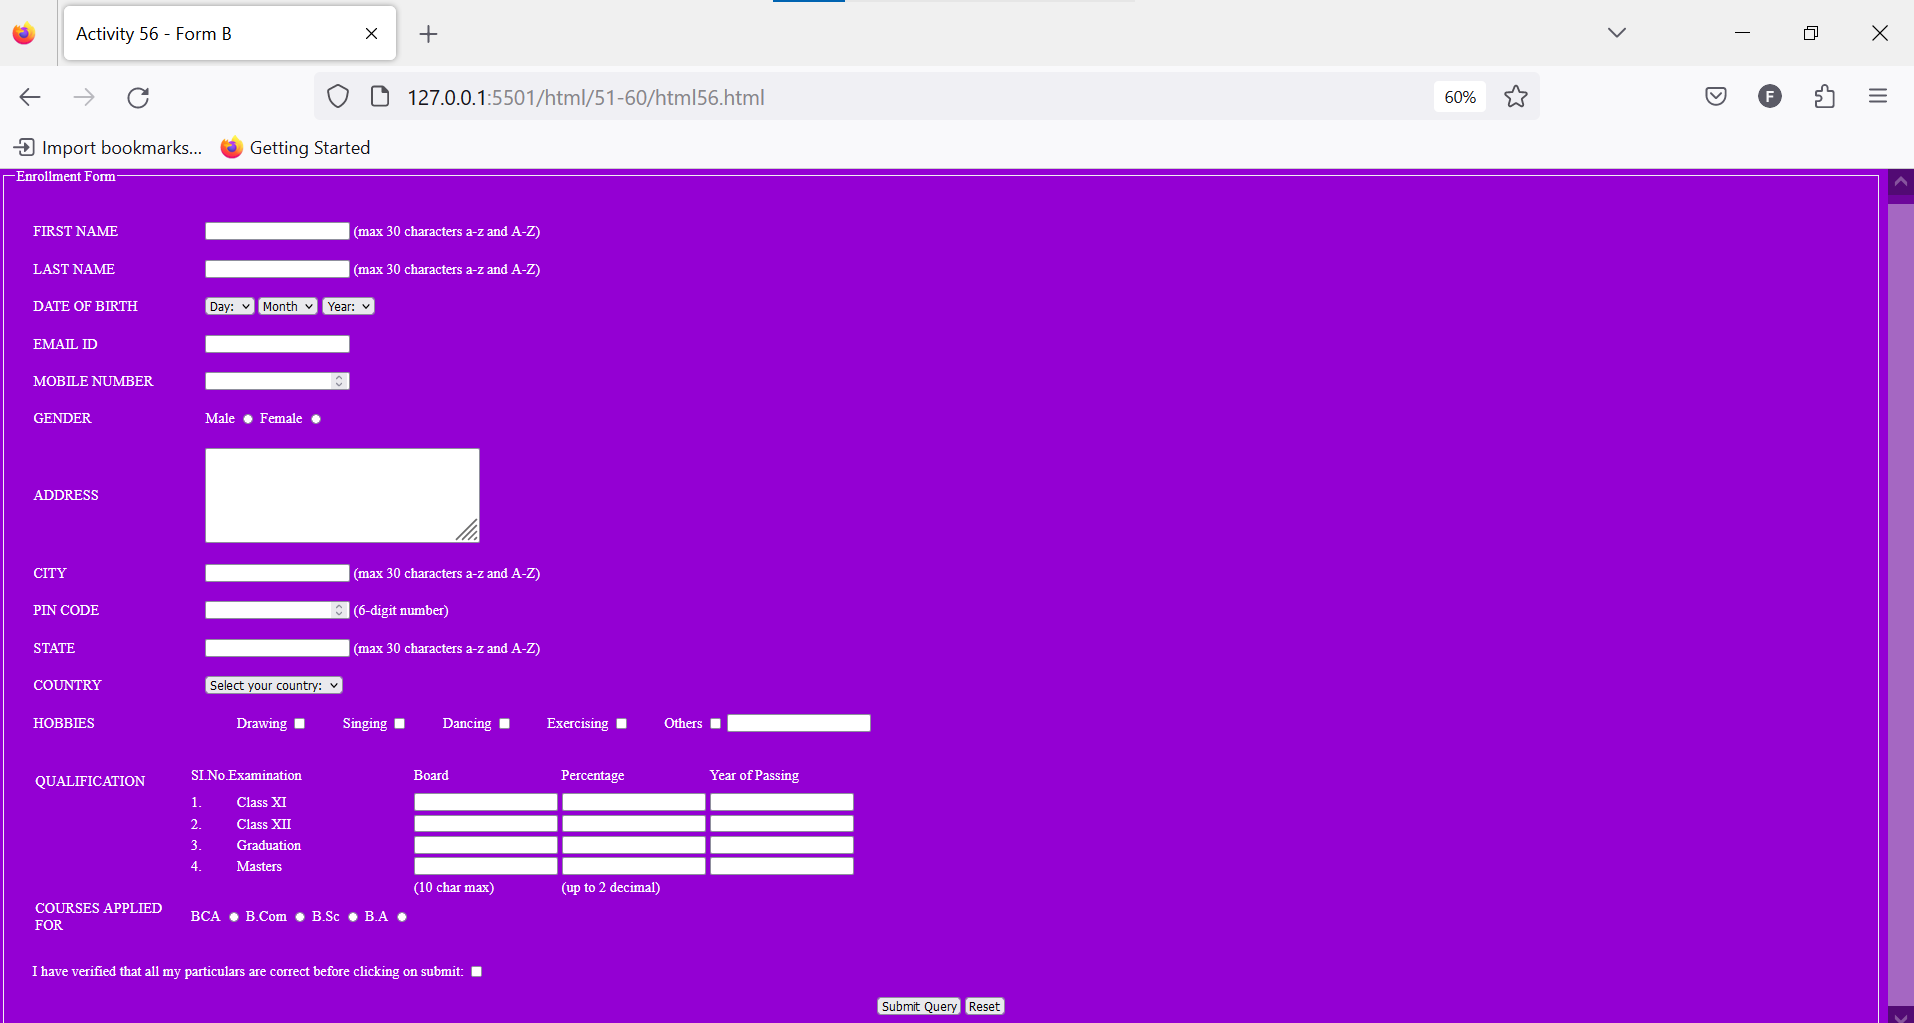
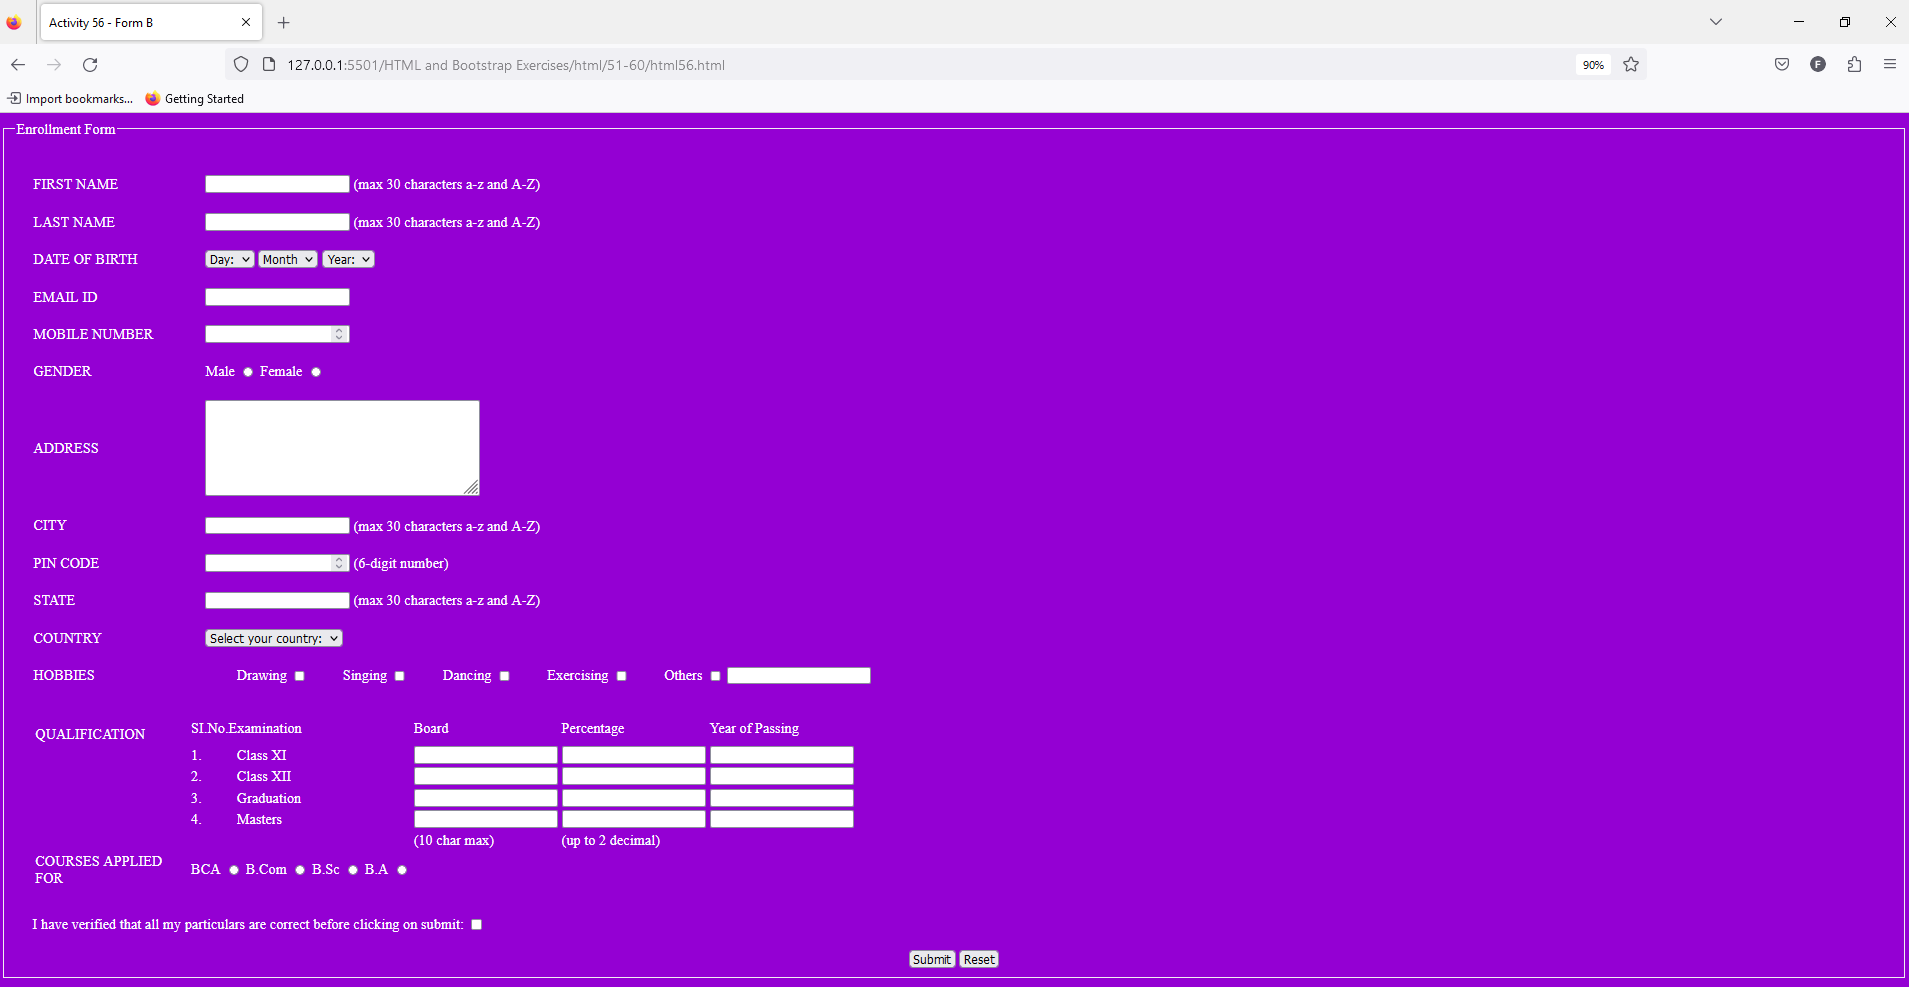
update exercise 55 & 56 html and images

diff --git a/HTML and Bootstrap Exercises/html/51-60/html56.html b/HTML and Bootstrap Exercises/html/51-60/html56.html
@@ -227,8 +227,8 @@
 
       <br><br>
       <center>
-        <input type="submit">
-        <input type="reset">
+        <button type="submit">Submit</button>
+        <button type="reset">Reset</button>
       </center>
 
     </fieldset>

diff --git a/HTML and Bootstrap Exercises/html/51-60/html55.html b/HTML and Bootstrap Exercises/html/51-60/html55.html
@@ -92,7 +92,7 @@
 
         <tr>
           <td></td>
-          <td><input type="submit"></td>
+          <td><button type="submit">Submit</button></td>
         </tr>
       </table>
     </fieldset>
